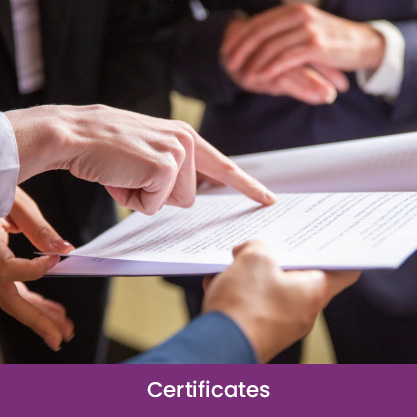
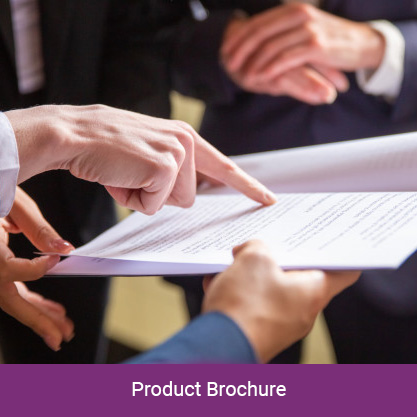
feat(about contact): add new content

Changed region(s): [[0.3118, 0.9041, 0.6859, 0.9664], [0.4365, 0.8417, 0.53, 0.8729]]

diff --git a/about.html b/about.html
@@ -152,27 +152,31 @@
            <div class="row">
             <div class="col-lg-3">
              </div>
-              <div class="col-lg-3 col-sm-6" data-aos="fade-right">
+              <div class="col-lg-3 col-sm-6" data-aos="fade-right" style="
+              cursor: pointer;
+          ">
                  <div class="content" style="
                  transform: none;
              ">
                     <div class="content-overlay"></div>
                     <img class="content-image" src="img/pic38.png">
                     <div class="content-details fadeIn-bottom">
-                       <h3 class="content-title">Product Brochure
+                       <h3 class="content-title">Click here to download
                        </h3>
                     </div>
                     </a>
                  </div>
               </div>
-              <div class="col-lg-3 col-sm-6" data-aos="fade-left">
+              <div class="col-lg-3 col-sm-6" data-aos="fade-left" style="
+              cursor: pointer;
+          ">
                  <div class="content" style="
                  transform: none;
              ">
                     <div class="content-overlay"></div>
                     <img class="content-image" src="img/pic37.png">
                     <div class="content-details fadeIn-bottom">
-                       <h3 class="content-title">Company Profile
+                       <h3 class="content-title">Click here to download
                        </h3>
                     </div>
                     </a>

diff --git a/contact.html b/contact.html
@@ -148,13 +148,16 @@
            <span class="contact-info__icon"><i class="ti-tablet"></i></span>
            <div class="media-body">
              <h3>0333597044</h3>
+             <h3>Fax: 0333597044</h3>
              <p></p>
            </div>
          </div>
          <div class="media contact-info">
            <span class="contact-info__icon"><i class="ti-email"></i></span>
            <div class="media-body">
-             <h3>badrul@sun-power.com.my / sprsb64@gmail.com</h3>
+             <h3>badrul@sun-power.com.my</br>
+                sprsb64@gmail.com</br>
+                user@sun-power.com.my</h3>
              <p></p>
            </div>
          </div>
